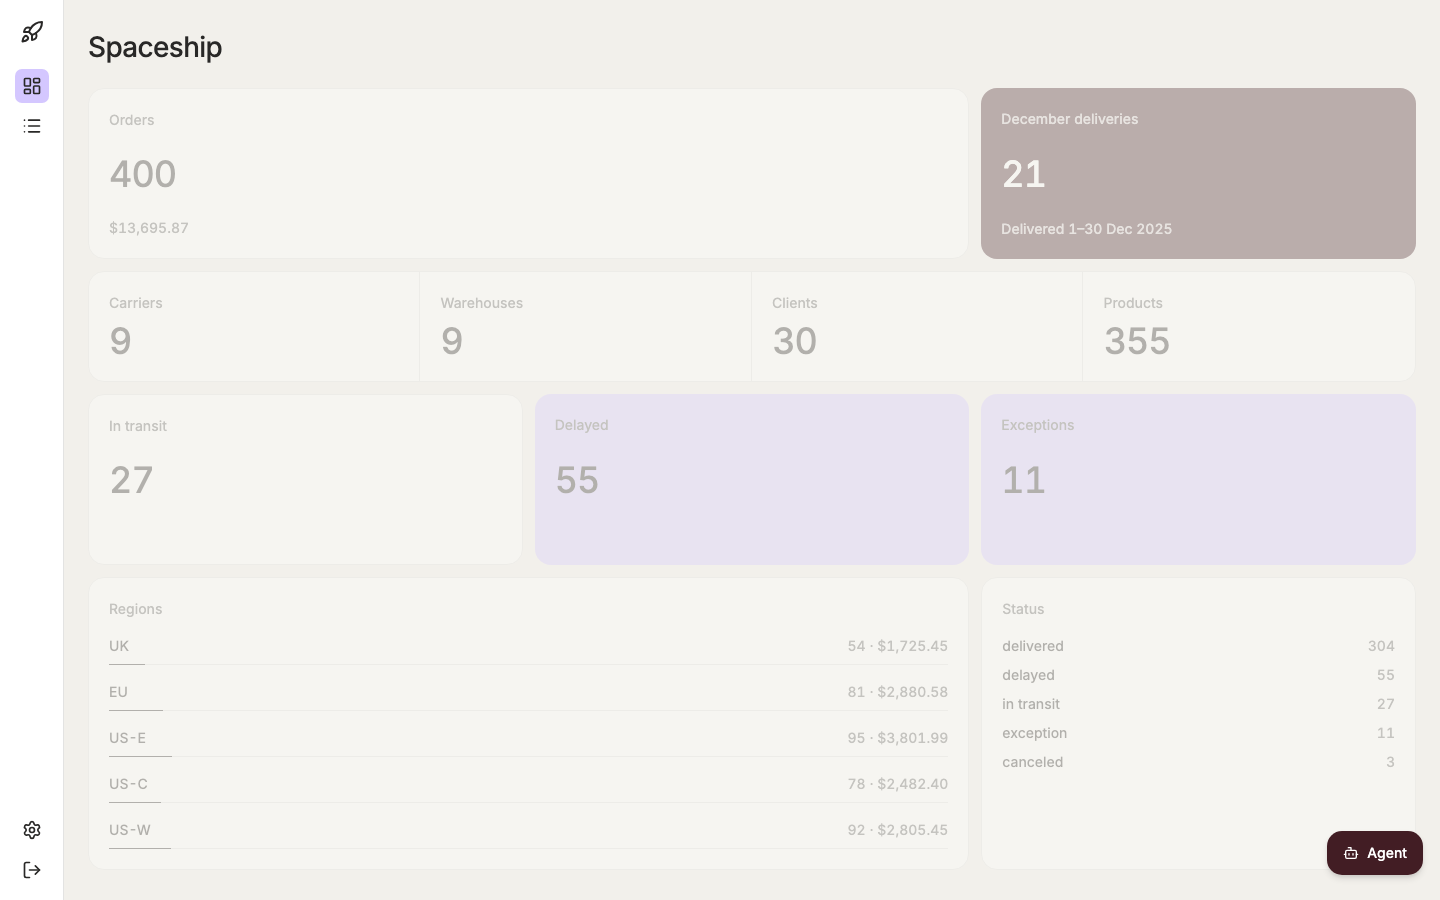
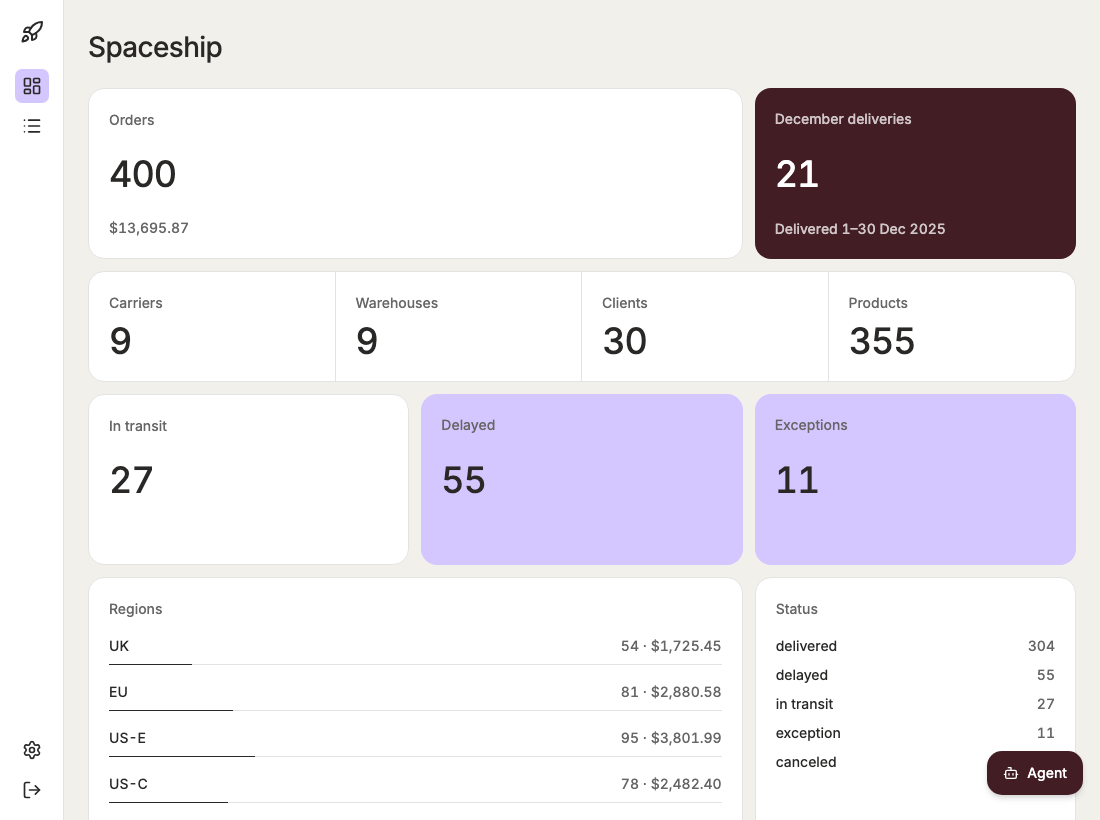
docs: update images in README and usage documentation for consistency
- Replaced image syntax in README.md and using.md to use HTML `<img>` tags for better control over image display.
- Updated image files for sign-in, dashboard, agent, order table, and settings to ensure visual consistency across documentation.

diff --git a/docs/using.md b/docs/using.md
@@ -4,7 +4,7 @@ Spaceship is one shipping book, not a place to create orders or talk to carriers
 
 Sign in at `/login`. `/` sends you to the dashboard. A missing session sends you back to sign in. The error under the form is one sentence for an unknown email and a wrong password.
 
-![Sign in](images/sign-in.png)
+<img src="images/sign-in.png" alt="Sign in" width="560">
 
 The left rail is the same on every signed-in page.
 
@@ -22,7 +22,7 @@ On a narrow screen the rail sits along the bottom.
 
 The dashboard is the state of the book, not a chart you configure.
 
-![Dashboard](images/dashboard.png)
+<img src="images/dashboard.png" alt="Dashboard" width="560">
 
 | Figure | Meaning |
 | --- | --- |
@@ -37,7 +37,7 @@ The dashboard is the state of the book, not a chart you configure.
 
 Details is every order, forty at a time. Previous and Next move by that page.
 
-![Order table](images/details.png)
+<img src="images/details.png" alt="Order table" width="560">
 
 Each row is one order: id, client, order date, delivery date, carrier, warehouse, region, origin, destination, status, SKU, category, quantity, unit price, value, and promo. A missing delivery date is shown as a dash. That is the in-transit and canceled orders.
 
@@ -49,7 +49,7 @@ Operators depend on the column. Text can contain or equal. Dates can be on, befo
 
 **Agent** opens a panel on the right. Drag the handle on its inner edge, or focus the handle and use the arrow keys, to change the width. The default is 480px. The panel remembers the width in this browser. A new chat starts from the plus button. Each tab can be closed. Closing the last tab leaves an empty chat. Conversations stay in this browser after a refresh.
 
-![Agent](images/agent.png)
+<img src="images/agent.png" alt="Agent" width="560">
 
 Ask questions in plain language, then send one. Examples that match the book:
 
@@ -65,7 +65,7 @@ Escape closes the panel.
 
 ## Settings
 
-![Settings](images/settings.png)
+<img src="images/settings.png" alt="Settings" width="560">
 
 **Profile** edits your name, title, and department. Role and email are fixed.
 

diff --git a/README.md b/README.md
@@ -8,15 +8,15 @@ The walkthrough is [docs/using.md](docs/using.md). Design, HTTP, sign-in, and ar
 
 Sign in, then use the left rail. **Dashboard** is the summary. **Details** is the order table. **Settings** is your profile. **Agent**, at the bottom right, asks a question about the book.
 
-![Sign in](docs/images/sign-in.png)
+<img src="docs/images/sign-in.png" alt="Sign in" width="560">
 
-![Dashboard](docs/images/dashboard.png)
+<img src="docs/images/dashboard.png" alt="Dashboard" width="560">
 
-![Agent](docs/images/agent.png)
+<img src="docs/images/agent.png" alt="Agent" width="560">
 
-![Order table](docs/images/details.png)
+<img src="docs/images/details.png" alt="Order table" width="560">
 
-![Settings](docs/images/settings.png)
+<img src="docs/images/settings.png" alt="Settings" width="560">
 
 Two seeded accounts come with the book. An admin can invite someone else. A member cannot.
 
